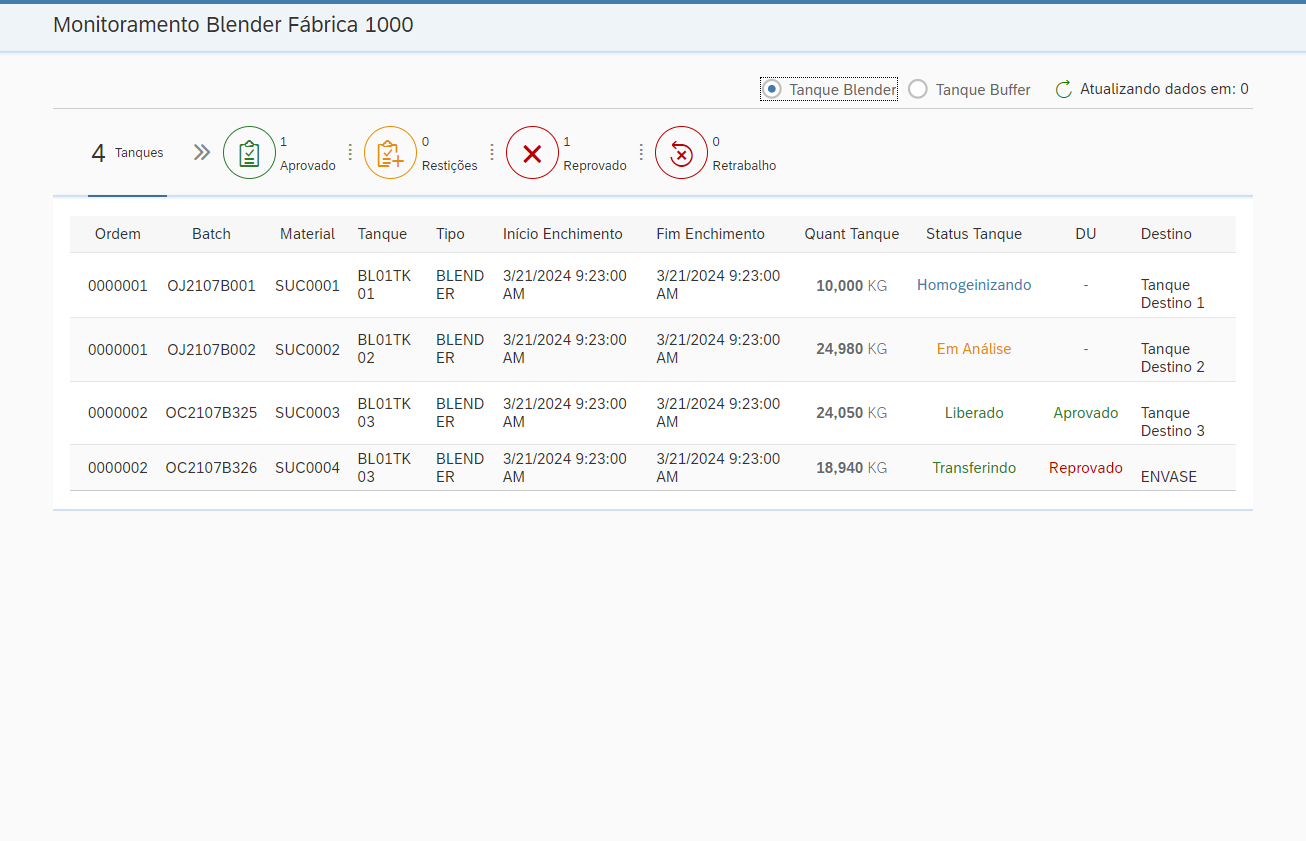
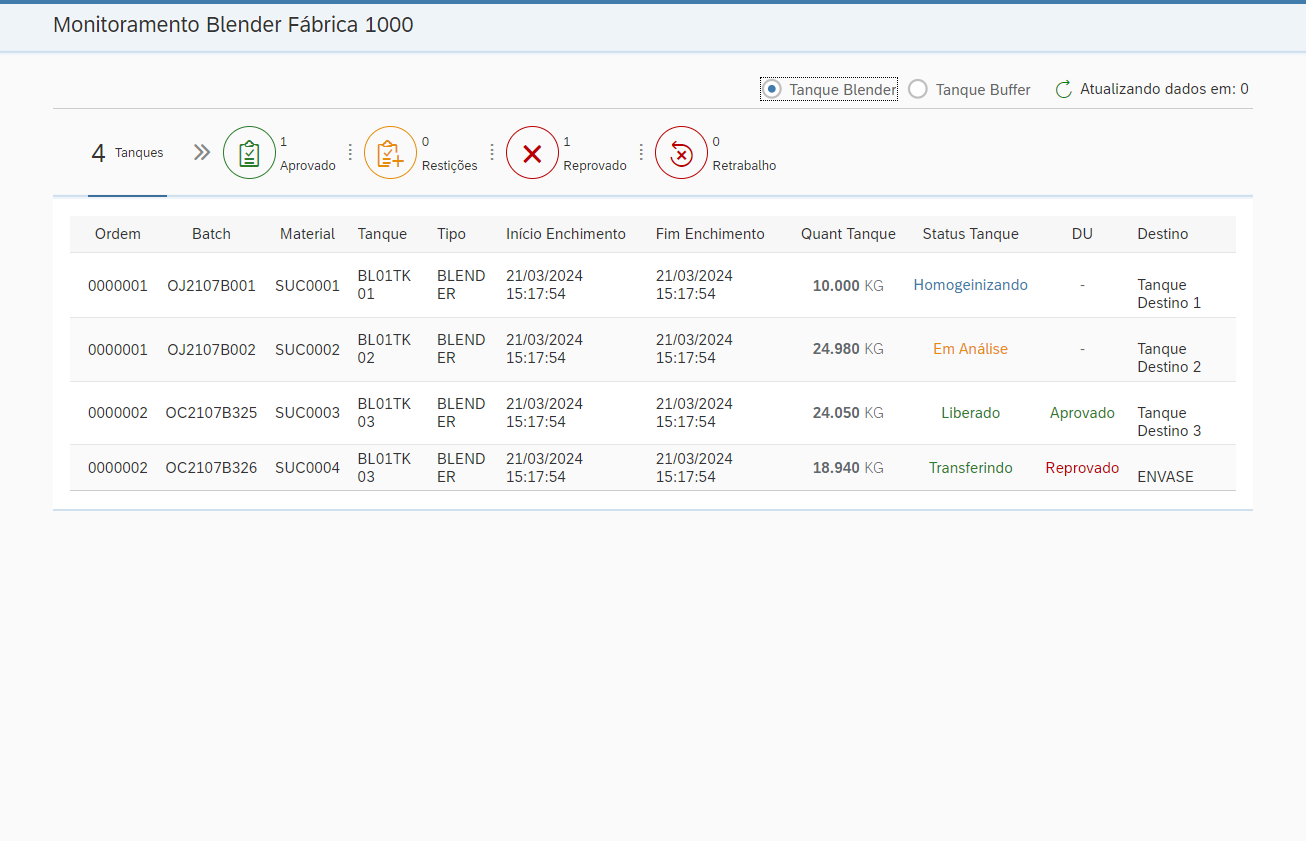
Implementado configuração via "options" para lang=pt-BR

diff --git a/reports/2024-03-21/log.html b/reports/2024-03-21/log.html
@@ -2081,25 +2081,25 @@ storage = function () {
 window.output = {};
 </script>
 <script type="text/javascript">
-window.output["suite"] = [1,2,3,0,[],[1,0,25384],[[4,5,6,0,[],[1,40,2241],[[7,8,9,0,[],[1,44,2235],[],[[10,0,0,[],[1,252,2025],[[0,11,12,0,13,14,0,0,[1,253,1],[[254,2,15]]],[0,16,17,0,18,19,20,0,[1,255,2015],[[2270,2,21],[2270,2,22],[2270,2,23]]],[0,11,12,0,13,24,0,0,[1,2271,1],[[2272,2,25]]],[0,26,12,0,27,28,0,0,[1,2273,1],[[2273,2,29]]],[0,26,12,0,27,30,0,0,[1,2274,1],[[2275,2,29]]],[0,26,12,0,27,31,0,0,[1,2276,1],[[2277,2,29]]]]]],[],[1,1,0,0]]],[],[],[1,1,0,0]],[32,33,34,0,[],[1,2283,23100],[[35,36,37,0,[],[1,2290,23090],[],[[38,0,0,[],[1,11758,5519],[[0,11,12,0,13,39,0,0,[1,11759,2],[[11761,2,40]]],[0,41,42,0,43,44,0,0,[1,11762,786],[[11764,2,45]]],[0,46,42,0,47,48,0,0,[1,12553,1360],[]],[0,49,42,0,50,0,0,0,[1,13914,262],[[14176,2,51]]],[0,52,42,0,53,54,0,0,[1,14177,224],[[14178,2,55]]],[0,56,42,0,57,58,0,0,[1,14401,460],[[14402,2,59],[14844,2,60],[14844,2,61]]],[0,52,42,0,53,62,0,0,[1,14863,142],[[14865,2,63]]],[0,56,42,0,57,64,0,0,[1,15006,325],[[15009,2,65],[15313,2,66],[15313,2,67]]],[0,52,42,0,53,68,0,0,[1,15332,95],[[15334,2,69]]],[0,56,42,0,57,70,0,0,[1,15429,317],[[15431,2,71],[15733,2,66],[15733,2,67]]],[0,72,42,0,73,74,0,0,[1,15747,116],[[15749,2,75]]],[0,46,42,0,47,76,0,0,[1,15867,53],[]],[0,49,42,0,50,0,0,0,[1,15920,216],[[16136,2,77]]],[0,72,42,0,73,78,0,0,[1,16137,192],[[16138,2,79]]],[0,46,42,0,47,80,0,0,[1,16330,730],[]],[0,81,42,0,82,83,0,0,[1,17060,40],[[17063,2,84]]],[0,85,42,0,86,87,0,0,[1,17100,33],[[17134,2,88]]],[0,49,42,0,50,0,0,0,[1,17135,141],[[17276,2,89]]]]],[90,0,0,[],[1,17278,5521],[[0,11,12,0,13,91,0,0,[1,17280,1],[[17280,2,92]]],[0,41,42,0,43,93,0,0,[1,17281,1408],[[17282,2,94]]],[0,46,42,0,47,95,0,0,[1,18690,252],[]],[0,85,42,0,86,96,0,0,[1,18943,63],[[19006,2,97]]],[0,98,12,0,99,100,0,0,[1,19007,1002],[[20009,2,101]]],[0,49,42,0,50,0,0,0,[1,20010,155],[[20165,2,102]]],[0,72,42,0,73,103,0,0,[1,20166,124],[[20168,2,104]]],[0,85,42,0,86,105,0,0,[1,20291,28],[[20319,2,106]]],[0,98,12,0,99,100,0,0,[1,20321,1008],[[21329,2,101]]],[0,49,42,0,50,0,0,0,[1,21330,152],[[21482,2,107]]],[0,72,42,0,73,108,0,0,[1,21483,93],[[21484,2,109]]],[0,85,42,0,86,96,0,0,[1,21578,25],[[21602,2,97]]],[0,98,12,0,99,100,0,0,[1,21606,1014],[[22620,2,101]]],[0,49,42,0,50,0,0,0,[1,22621,178],[[22798,2,110]]]]]],[[1,111,112,0,0,0,0,0,[1,2726,9031],[[0,113,42,0,114,115,0,0,[1,2727,8571],[[2729,2,116]]],[0,117,42,0,118,119,0,0,[1,11298,214],[]],[0,120,42,0,121,122,0,0,[1,11512,245],[]]]],[2,123,42,0,124,0,0,0,[1,22802,2578],[]]],[2,2,0,0]]],[],[],[2,2,0,0]]],[],[],[3,3,0,0]];
+window.output["suite"] = [1,2,3,0,[],[1,0,21825],[[4,5,6,0,[],[1,19,21806],[],[[7,0,0,[],[1,9416,4689],[[0,8,9,0,10,11,0,0,[1,9416,1],[[9417,2,12]]],[0,13,14,0,15,16,0,0,[1,9418,433],[[9419,2,17]]],[0,18,14,0,19,20,0,0,[1,9851,908],[]],[0,21,14,0,22,0,0,0,[1,10759,233],[[10992,2,23]]],[0,24,14,0,25,26,0,0,[1,11001,186],[[11001,2,27]]],[0,28,14,0,29,30,0,0,[1,11188,458],[[11190,2,31],[11630,2,32],[11630,2,33]]],[0,24,14,0,25,34,0,0,[1,11646,133],[[11648,2,35]]],[0,28,14,0,29,36,0,0,[1,11779,307],[[11779,2,37],[12067,2,38],[12067,2,39]]],[0,24,14,0,25,40,0,0,[1,12086,108],[[12094,2,41]]],[0,28,14,0,29,42,0,0,[1,12195,317],[[12195,2,43],[12496,2,38],[12496,2,39]]],[0,44,14,0,45,46,0,0,[1,12512,142],[[12512,2,47]]],[0,18,14,0,19,48,0,0,[1,12655,46],[]],[0,21,14,0,22,0,0,0,[1,12700,236],[[12936,2,49]]],[0,44,14,0,45,50,0,0,[1,12936,242],[[12936,2,51]]],[0,18,14,0,19,52,0,0,[1,13179,699],[]],[0,53,14,0,54,55,0,0,[1,13878,30],[[13878,2,56]]],[0,57,14,0,58,59,0,0,[1,13907,23],[[13930,2,60]]],[0,21,14,0,22,0,0,0,[1,13931,174],[[14090,2,61]]]]],[62,0,0,[],[1,14105,5319],[[0,8,9,0,10,63,0,0,[1,14108,0],[[14108,2,64]]],[0,13,14,0,15,65,0,0,[1,14108,1440],[[14108,2,66]]],[0,18,14,0,19,67,0,0,[1,15549,282],[]],[0,57,14,0,58,68,0,0,[1,15832,21],[[15853,2,69]]],[0,70,9,0,71,72,0,0,[1,15853,1012],[[16864,2,73]]],[0,21,14,0,22,0,0,0,[1,16864,107],[[16971,2,74]]],[0,44,14,0,45,75,0,0,[1,16972,54],[[16973,2,76]]],[0,57,14,0,58,77,0,0,[1,17026,22],[[17048,2,78]]],[0,70,9,0,71,72,0,0,[1,17048,1006],[[18055,2,73]]],[0,21,14,0,22,0,0,0,[1,18056,137],[[18193,2,79]]],[0,44,14,0,45,80,0,0,[1,18194,63],[[18195,2,81]]],[0,57,14,0,58,68,0,0,[1,18259,22],[[18282,2,69]]],[0,70,9,0,71,72,0,0,[1,18283,1003],[[19286,2,73]]],[0,21,14,0,22,0,0,0,[1,19286,138],[[19425,2,82]]]]]],[[1,83,84,0,0,0,0,0,[1,267,9148],[[0,85,9,0,86,87,88,0,[1,267,0],[[267,2,89]]],[0,90,9,0,91,92,0,0,[1,267,0],[]],[0,93,14,0,94,95,0,0,[1,267,8807],[[282,2,96]]],[0,97,14,0,98,99,0,0,[1,9073,212],[]],[0,100,14,0,101,102,0,0,[1,9286,129],[]]]],[2,103,14,0,104,0,0,0,[1,19425,2400],[]]],[2,2,0,0]]],[],[],[2,2,0,0]];
 </script>
 <script type="text/javascript">
 window.output["strings"] = [];
 </script>
 <script type="text/javascript">
[1 lines of base64/hex data omitted]
+window.output["strings"] = window.output["strings"].concat(["*","*Web","*C:\\Users\\ych885\\Sources\\robot-framework-tests\\suites\\web","*../../suites/web","*test AFRY BR github","*C:\\Users\\ych885\\Sources\\robot-framework-tests\\suites\\web\\test_AFRY_BR_github.robot","*../../suites/web/test_AFRY_BR_github.robot","*SAP UI5 - Page - Cockpit Order Process","*Log","*BuiltIn","*<p>Logs the given message with the given level.\x3c/p>","*message=\"URL: \"+${page_cockpit_data.url}    level=INFO","*\"URL: \"+https://afry-br.github.io/ui5_mock_test/","*Go To","*SeleniumLibrary","*<p>Navigates the current browser window to the provided <code>url\x3c/code>.\x3c/p>","*url=${page_cockpit_data.url}","*Opening url '<a href=\"https://afry-br.github.io/ui5_mock_test/\">https://afry-br.github.io/ui5_mock_test/\x3c/a>'","*Wait Until Element Is Visible","*<p>Waits until the element <code>locator\x3c/code> is visible.\x3c/p>","*locator=${page_cockpit_element.button_buscar}    timeout=10","*Capture Page Screenshot","*<p>Takes a screenshot of the current page and embeds it into a log file.\x3c/p>","*\x3c/td>\x3c/tr><tr><td colspan=\"3\"><a href=\"selenium-screenshot-1.png\"><img src=\"selenium-screenshot-1.png\" width=\"800px\">\x3c/a>","*Input Text","*<p>Types the given <code>text\x3c/code> into the text field identified by <code>locator\x3c/code>.\x3c/p>","*${page_cockpit_element.input_combo_planta}    ${page_cockpit_data.cod_plant}","*Typing text '0001' into text field '//input[@id=\"__xmlview0--combo_plant-inner\"]'.","*Press Keys","*<p>Simulates the user pressing key(s) to an element or on the active browser.\x3c/p>","*${page_cockpit_element.input_combo_planta}    ENTER","*Sending key(s) ('ENTER',) to //input[@id=\"__xmlview0--combo_plant-inner\"] element.","*Pressing special key ENTER to element.","*Releasing special key ENTER.","*${page_cockpit_element.input_dt_ini_perio}    ${page_cockpit_data.dt_ini}","*Typing text '14/05/2021' into text field '//input[@id=\"__xmlview0--dt_ini_perio-inner\"]'.","*${page_cockpit_element.input_dt_ini_perio}    TAB","*Sending key(s) ('TAB',) to //input[@id=\"__xmlview0--dt_ini_perio-inner\"] element.","*Pressing special key TAB to element.","*Releasing special key TAB.","*${page_cockpit_element.input_dt_fim_perio}    ${page_cockpit_data.dt_fim}","*Typing text '15/05/2021' into text field '//input[@id=\"__xmlview0--dt_fim_perio-inner\"]'.","*${page_cockpit_element.input_dt_fim_perio}    TAB","*Sending key(s) ('TAB',) to //input[@id=\"__xmlview0--dt_fim_perio-inner\"] element.","*Click Element","*<p>Click the element identified by <code>locator\x3c/code>.\x3c/p>","*${page_cockpit_element.button_buscar}","*Clicking element '//button[@id=\"__xmlview0--bt_search\"]'.","*${page_cockpit_element.table_ordem_1}    timeout=10","*\x3c/td>\x3c/tr><tr><td colspan=\"3\"><a href=\"selenium-screenshot-2.png\"><img src=\"selenium-screenshot-2.png\" width=\"800px\">\x3c/a>","*${page_cockpit_element.table_ordem_1}","*Clicking element '//td[@id=\"__item5-__xmlview0--table_ordens-0-cell0\"]'.","*${page_cockpit_element.subtela_op}    timeout=10","*Element Text Should Be","*<p>Verifies that element <code>locator\x3c/code> contains exact the text <code>expected\x3c/code>.\x3c/p>","*${page_cockpit_element.subtela_op}    expected=${page_cockpit_data.order_num}","*Verifying element '//span[@id=\"__text20\"]' contains exact text '012345678'.","*Page Should Contain","*<p>Verifies that current page contains <code>text\x3c/code>.\x3c/p>","*text=${page_cockpit_data.order_num}","*Current page contains text '012345678'.","*\x3c/td>\x3c/tr><tr><td colspan=\"3\"><a href=\"selenium-screenshot-3.png\"><img src=\"selenium-screenshot-3.png\" width=\"800px\">\x3c/a>","*SAP UI5 - Page - Blender Monitor","*message=\"URL: \"+${page_blender_mon_data.url}    level=INFO","*\"URL: \"+https://afry-br.github.io/Britvic_BlenderMonitor/","*url=${page_blender_mon_data.url}","*Opening url '<a href=\"https://afry-br.github.io/Britvic_BlenderMonitor/\">https://afry-br.github.io/Britvic_BlenderMonitor/\x3c/a>'","*${page_blender_mon_element.rb_buffer}    timeout=10","*text=${page_blender_mon_element.header_blender}","*Current page contains text 'Monitoramento Blender Fábrica'.","*Sleep","*<p>Pauses the test executed for the given time.\x3c/p>","*1","*Slept 1 second.","*\x3c/td>\x3c/tr><tr><td colspan=\"3\"><a href=\"selenium-screenshot-4.png\"><img src=\"selenium-screenshot-4.png\" width=\"800px\">\x3c/a>","*${page_blender_mon_element.rb_buffer}","*Clicking element '//bdi[@id=\"__xmlview0--BF-label-bdi\"]'.","*text=${page_blender_mon_element.header_buffer}","*Current page contains text 'Monitoramento Buffer Fábrica'.","*\x3c/td>\x3c/tr><tr><td colspan=\"3\"><a href=\"selenium-screenshot-5.png\"><img src=\"selenium-screenshot-5.png\" width=\"800px\">\x3c/a>","*${page_blender_mon_element.rb_blender}","*Clicking element '//bdi[@id=\"__xmlview0--BL-label-bdi\"]'.","*\x3c/td>\x3c/tr><tr><td colspan=\"3\"><a href=\"selenium-screenshot-6.png\"><img src=\"selenium-screenshot-6.png\" width=\"800px\">\x3c/a>","*Use Browser","*afry_br_github","*Evaluate","*<p>Evaluates the given expression in Python and returns the result.\x3c/p>","*sys.modules['selenium.webdriver'].ChromeOptions()    sys","*${options}","*${options} = &lt;selenium.webdriver.chrome.options.Options object at 0x00000230563090A0&gt;","*Call Method","*<p>Calls the named method of the given object with the provided arguments.\x3c/p>","*${options}    add_argument    --lang\\=${afry_br_github.lang}","*Open Browser","*<p>Opens a new browser instance to the optional <code>url\x3c/code>.\x3c/p>","*url=${afry_br_github.git_url}    browser=${afry_br_github.browse_name}    options=${options}","*Opening browser 'chrome' to base url '<a href=\"https://github.com/AFRY-BR\">https://github.com/AFRY-BR\x3c/a>'.","*Set Window Position","*<p>Sets window position using <code>x\x3c/code> and <code>y\x3c/code> coordinates.\x3c/p>","*x=1500    y=-300","*Set Window Size","*<p>Sets current windows size to given <code>width\x3c/code> and <code>height\x3c/code>.\x3c/p>","*width=1200    height=900","*Close Browser","*<p>Closes the current browser.\x3c/p>"]);
 </script>
 <script type="text/javascript">
-window.output["stats"] = [[{"elapsed":"00:00:13","fail":0,"label":"All Tests","pass":3,"skip":0}],[],[{"elapsed":"00:00:25","fail":0,"id":"s1","label":"Suites","name":"Suites","pass":3,"skip":0},{"elapsed":"00:00:02","fail":0,"id":"s1-s1","label":"Suites.Apis","name":"Apis","pass":1,"skip":0},{"elapsed":"00:00:02","fail":0,"id":"s1-s1-s1","label":"Suites.Apis.Test Reqres Api","name":"Test Reqres Api","pass":1,"skip":0},{"elapsed":"00:00:23","fail":0,"id":"s1-s2","label":"Suites.Web","name":"Web","pass":2,"skip":0},{"elapsed":"00:00:23","fail":0,"id":"s1-s2-s1","label":"Suites.Web.test AFRY BR github","name":"test AFRY BR github","pass":2,"skip":0}]];
+window.output["stats"] = [[{"elapsed":"00:00:10","fail":0,"label":"All Tests","pass":2,"skip":0}],[],[{"elapsed":"00:00:22","fail":0,"id":"s1","label":"Web","name":"Web","pass":2,"skip":0},{"elapsed":"00:00:22","fail":0,"id":"s1-s1","label":"Web.test AFRY BR github","name":"test AFRY BR github","pass":2,"skip":0}]];
 </script>
 <script type="text/javascript">
 window.output["errors"] = [];
 </script>
 <script type="text/javascript">
-window.output["baseMillis"] = 1711023761474;
+window.output["baseMillis"] = 1711045059090;
 </script>
 <script type="text/javascript">
-window.output["generated"] = 25407;
+window.output["generated"] = 21845;
 </script>
 <script type="text/javascript">
 window.output["expand_keywords"] = null;

diff --git a/reports/2024-03-21/report.html b/reports/2024-03-21/report.html
@@ -1897,22 +1897,22 @@ storage = function () {
 window.output = {};
 </script>
 <script type="text/javascript">
-window.output["suite"] = [1,2,3,0,[],[1,0,25384],[[4,5,6,0,[],[1,40,2241],[[7,8,9,0,[],[1,44,2235],[],[[10,0,0,[],[1,252,2025],[]]],[],[1,1,0,0]]],[],[],[1,1,0,0]],[11,12,13,0,[],[1,2283,23100],[[14,15,16,0,[],[1,2290,23090],[],[[17,0,0,[],[1,11758,5519],[]],[18,0,0,[],[1,17278,5521],[]]],[],[2,2,0,0]]],[],[],[2,2,0,0]]],[],[],[3,3,0,0]];
+window.output["suite"] = [1,2,3,0,[],[1,0,21825],[[4,5,6,0,[],[1,19,21806],[],[[7,0,0,[],[1,9416,4689],[]],[8,0,0,[],[1,14105,5319],[]]],[],[2,2,0,0]]],[],[],[2,2,0,0]];
 </script>
 <script type="text/javascript">
 window.output["strings"] = [];
 </script>
 <script type="text/javascript">
-window.output["strings"] = window.output["strings"].concat(["*","*Suites","*C:\\Users\\ych885\\Sources\\robot-framework-tests\\suites","*../../suites","*Apis","*C:\\Users\\ych885\\Sources\\robot-framework-tests\\suites\\apis","*../../suites/apis","*Test Reqres Api","*C:\\Users\\ych885\\Sources\\robot-framework-tests\\suites\\apis\\test_reqres_api.robot","*../../suites/apis/test_reqres_api.robot","*Quick Get Request List Users","*Web","*C:\\Users\\ych885\\Sources\\robot-framework-tests\\suites\\web","*../../suites/web","*test AFRY BR github","*C:\\Users\\ych885\\Sources\\robot-framework-tests\\suites\\web\\test_AFRY_BR_github.robot","*../../suites/web/test_AFRY_BR_github.robot","*SAP UI5 - Page - Cockpit Order Process","*SAP UI5 - Page - Blender Monitor"]);
+window.output["strings"] = window.output["strings"].concat(["*","*Web","*C:\\Users\\ych885\\Sources\\robot-framework-tests\\suites\\web","*../../suites/web","*test AFRY BR github","*C:\\Users\\ych885\\Sources\\robot-framework-tests\\suites\\web\\test_AFRY_BR_github.robot","*../../suites/web/test_AFRY_BR_github.robot","*SAP UI5 - Page - Cockpit Order Process","*SAP UI5 - Page - Blender Monitor"]);
 </script>
 <script type="text/javascript">
-window.output["stats"] = [[{"elapsed":"00:00:13","fail":0,"label":"All Tests","pass":3,"skip":0}],[],[{"elapsed":"00:00:25","fail":0,"id":"s1","label":"Suites","name":"Suites","pass":3,"skip":0},{"elapsed":"00:00:02","fail":0,"id":"s1-s1","label":"Suites.Apis","name":"Apis","pass":1,"skip":0},{"elapsed":"00:00:02","fail":0,"id":"s1-s1-s1","label":"Suites.Apis.Test Reqres Api","name":"Test Reqres Api","pass":1,"skip":0},{"elapsed":"00:00:23","fail":0,"id":"s1-s2","label":"Suites.Web","name":"Web","pass":2,"skip":0},{"elapsed":"00:00:23","fail":0,"id":"s1-s2-s1","label":"Suites.Web.test AFRY BR github","name":"test AFRY BR github","pass":2,"skip":0}]];
+window.output["stats"] = [[{"elapsed":"00:00:10","fail":0,"label":"All Tests","pass":2,"skip":0}],[],[{"elapsed":"00:00:22","fail":0,"id":"s1","label":"Web","name":"Web","pass":2,"skip":0},{"elapsed":"00:00:22","fail":0,"id":"s1-s1","label":"Web.test AFRY BR github","name":"test AFRY BR github","pass":2,"skip":0}]];
 </script>
 <script type="text/javascript">
-window.output["baseMillis"] = 1711023761474;
+window.output["baseMillis"] = 1711045059090;
 </script>
 <script type="text/javascript">
-window.output["generated"] = 25407;
+window.output["generated"] = 21845;
 </script>
 <script type="text/javascript">
 window.output["expand_keywords"] = null;
